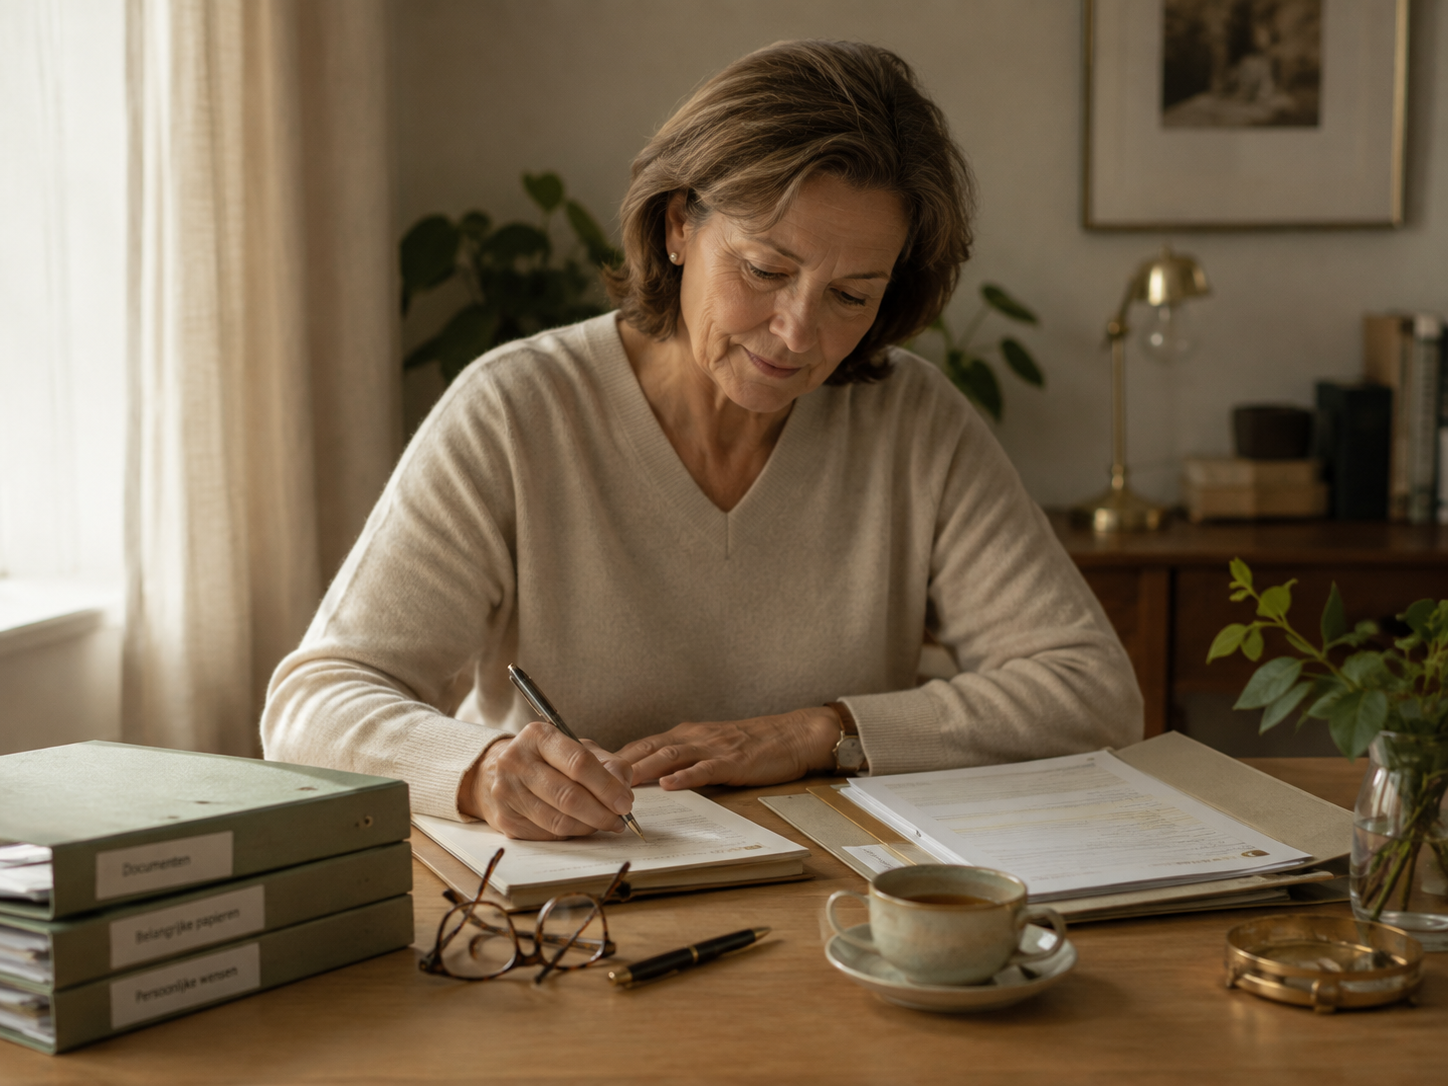
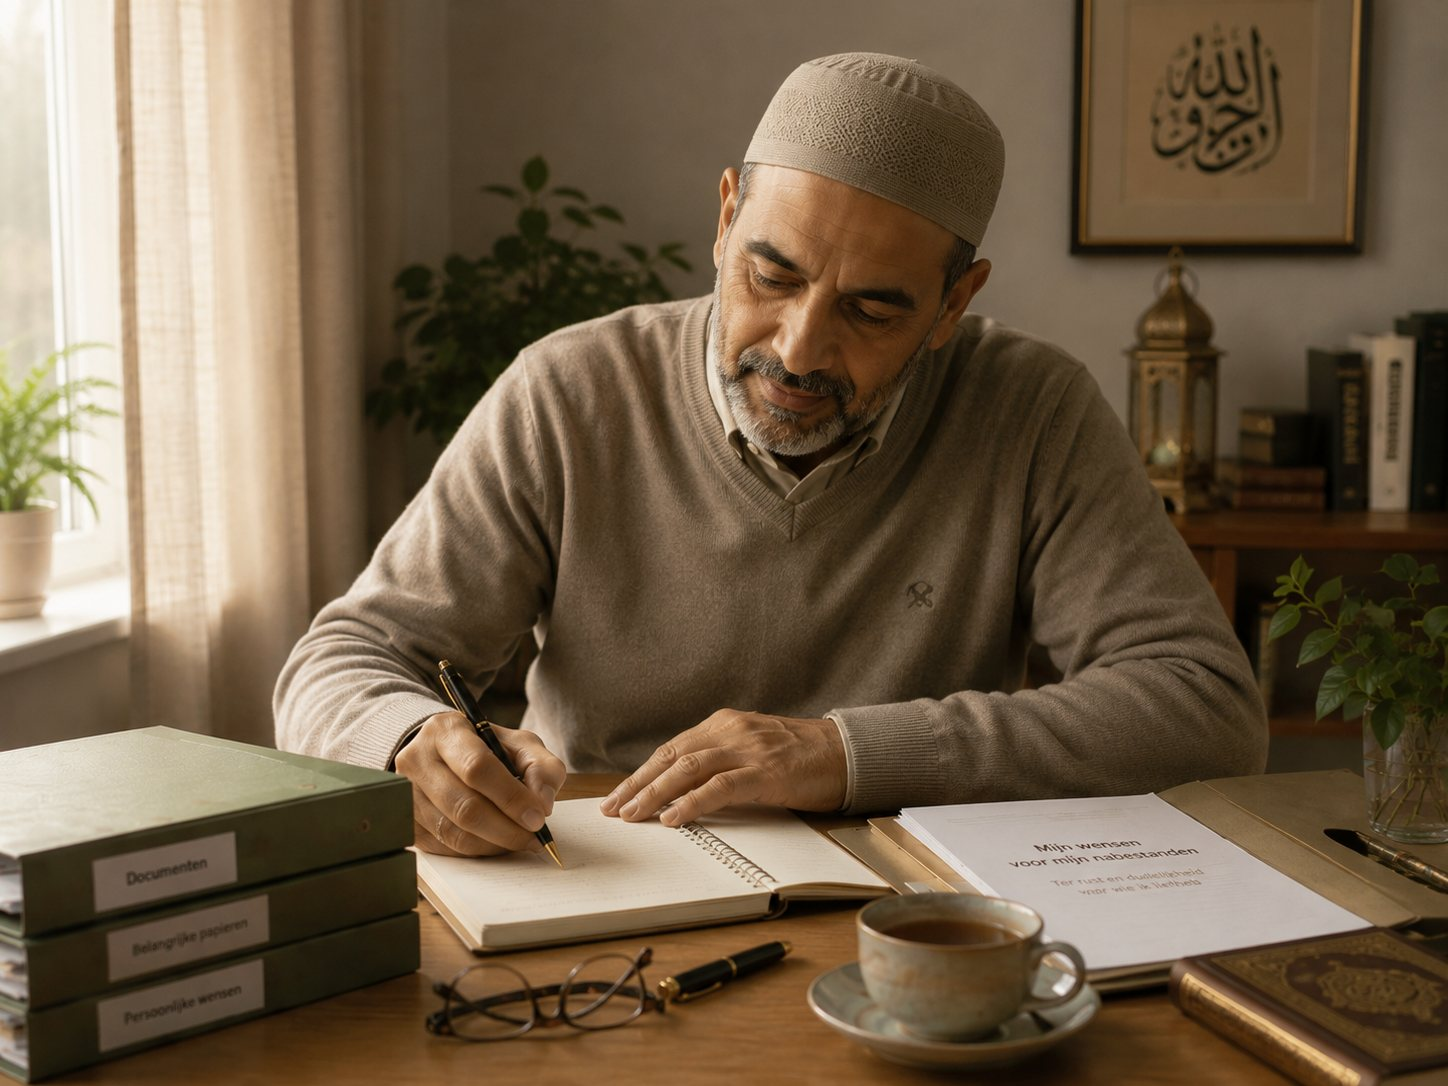
Definitieve foto voor "Vooraf goed regelen"
Vervangt de tijdelijke stand-in (een kopie van bijleven-hero.jpg, met een
warmer/verzadigder kleurbeeld dat afweek van de andere homepagefoto's).

De bron was 1448x1086 en dus al precies 4:3, zoals de sectie verwacht;
alleen hercomprimeerd naar q0.84, van 1,9 MB terug naar 192 kB. Dat ligt
in lijn met de andere assets.

Alt-tekst aangepast aan wat er nu daadwerkelijk op de foto staat.

diff --git a/src/routes/index.tsx b/src/routes/index.tsx
@@ -215,7 +215,7 @@ function Index() {
             <div className="overflow-hidden rounded-3xl shadow-[var(--shadow-elegant)] lg:order-2">
               <img
                 src={prepareImg}
-                alt="Iemand legt aan een bureau bij daglicht persoonlijke documenten en wensen vast"
+                alt="Man legt aan een bureau bij daglicht zijn wensen en belangrijke documenten vast"
                 width={1200}
                 height={900}
                 loading="lazy"
